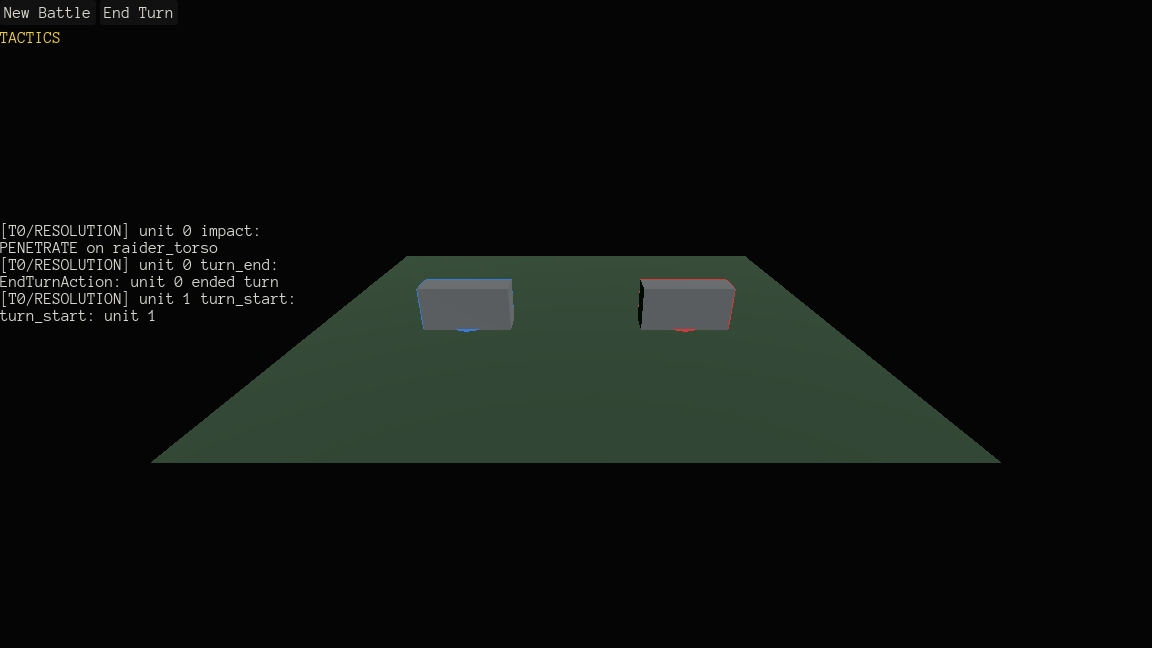
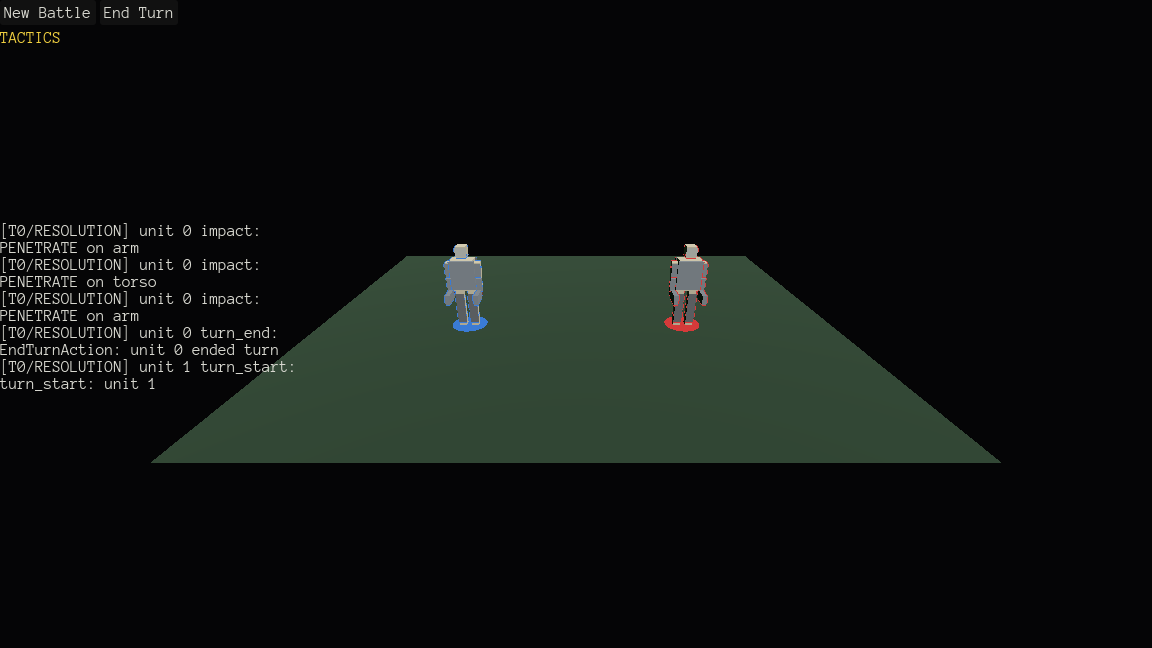
Checkpoint 7: use the real reference humanoid, not a bare torso stub
checkpoint_7.gd's _armed_unit() helper (a bare torso + one hand + pistol,
no legs/arms/head/plates) predates DeepStrike.assemble_reference_humanoid()
(docs/01 "The Reference Humanoid", built in taskblock01 Pass B) and was
never swapped out — so the checkpoint 7 recording showed two plain gray
boxes trading fire instead of full cyborgs. assemble_reference_humanoid()
gives the same guarantee the stub existed for (every socket filled,
deterministic, a pistol in each hand — always armed) with the actual
documented skeleton, so it's a drop-in replacement.

Regenerated checkpoint 7's artifacts and verified visually: both units
now render as full reference humanoids (head, torso, arms, legs, armor
plates) with a muzzle-to-impact tracer between them during resolution.

Changed region(s): [[0.0, 0.3704, 0.25, 0.6173], [0.5312, 0.3704, 0.6562, 0.5247], [0.3438, 0.3704, 0.4688, 0.5247]]

diff --git a/out/checkpoints/07/README.md b/out/checkpoints/07/README.md
@@ -1,15 +1,17 @@
 # Checkpoint 7
 
-Generated 2026-07-16T10:01:48Z, by launching the real project (`godot --path .`, a real GPU frame via `--display-driver x11`) and driving `BattleScene`/`TacticsController`/`CameraRig` exactly as a player would, then reading back the rendered frame — not a mockup. Recorded with `--write-movie`, converted from Godot's
+Generated 2026-07-16T10:11:45Z, by launching the real project (`godot --path .`, a real GPU frame via `--display-driver x11`) and driving `BattleScene`/`TacticsController`/`CameraRig` exactly as a player would, then reading back the rendered frame — not a mockup. Recorded with `--write-movie`, converted from Godot's
 native `.avi` output via `ffmpeg -c:v libx264` for a small file instead of the raw AVI.
 
 Phase 12 (docs/10, PLAN.md): "a human launches the game, selects a cyborg, queues a move and an
 aimed shot... ends the turn, watches the burst fire and ricochet, and reads the log —
-repeatedly, until one side is down." This recording exercises that loop for real: two hand-armed
-cyborgs (`jerry`, `raider`) trade pistol fire across several rounds until one side is down or
-the script ends. Phase 12.5's terminal shell (real OFL monospace font, six-color palette,
-rolling combat log via `UISink`, selected-unit stat block via `StatBlockView`/
-`WeaponResolver`, one `Theme` resource) is visible and live throughout.
+repeatedly, until one side is down." This recording exercises that loop for real: two
+`DeepStrike.assemble_reference_humanoid()` cyborgs (docs/01 "The Reference Humanoid" — full
+skeleton, head/arms/legs/plates/ammo rack, a pistol in each hand, deterministic and guaranteed
+armed, unlike the default battle's `assemble_random` loadouts) trade pistol fire across several
+rounds until one side is down or the script ends. Phase 12.5's terminal shell (real OFL
+monospace font, six-color palette, rolling combat log via `UISink`, selected-unit stat block
+via `StatBlockView`/`WeaponResolver`, one `Theme` resource) is visible and live throughout.
 
 **`playthrough.mp4`** — the full recording. Watch for:
 - The `RESOLUTION` banner (docs/10 Phase 12.4) holding through each turn's playback window,